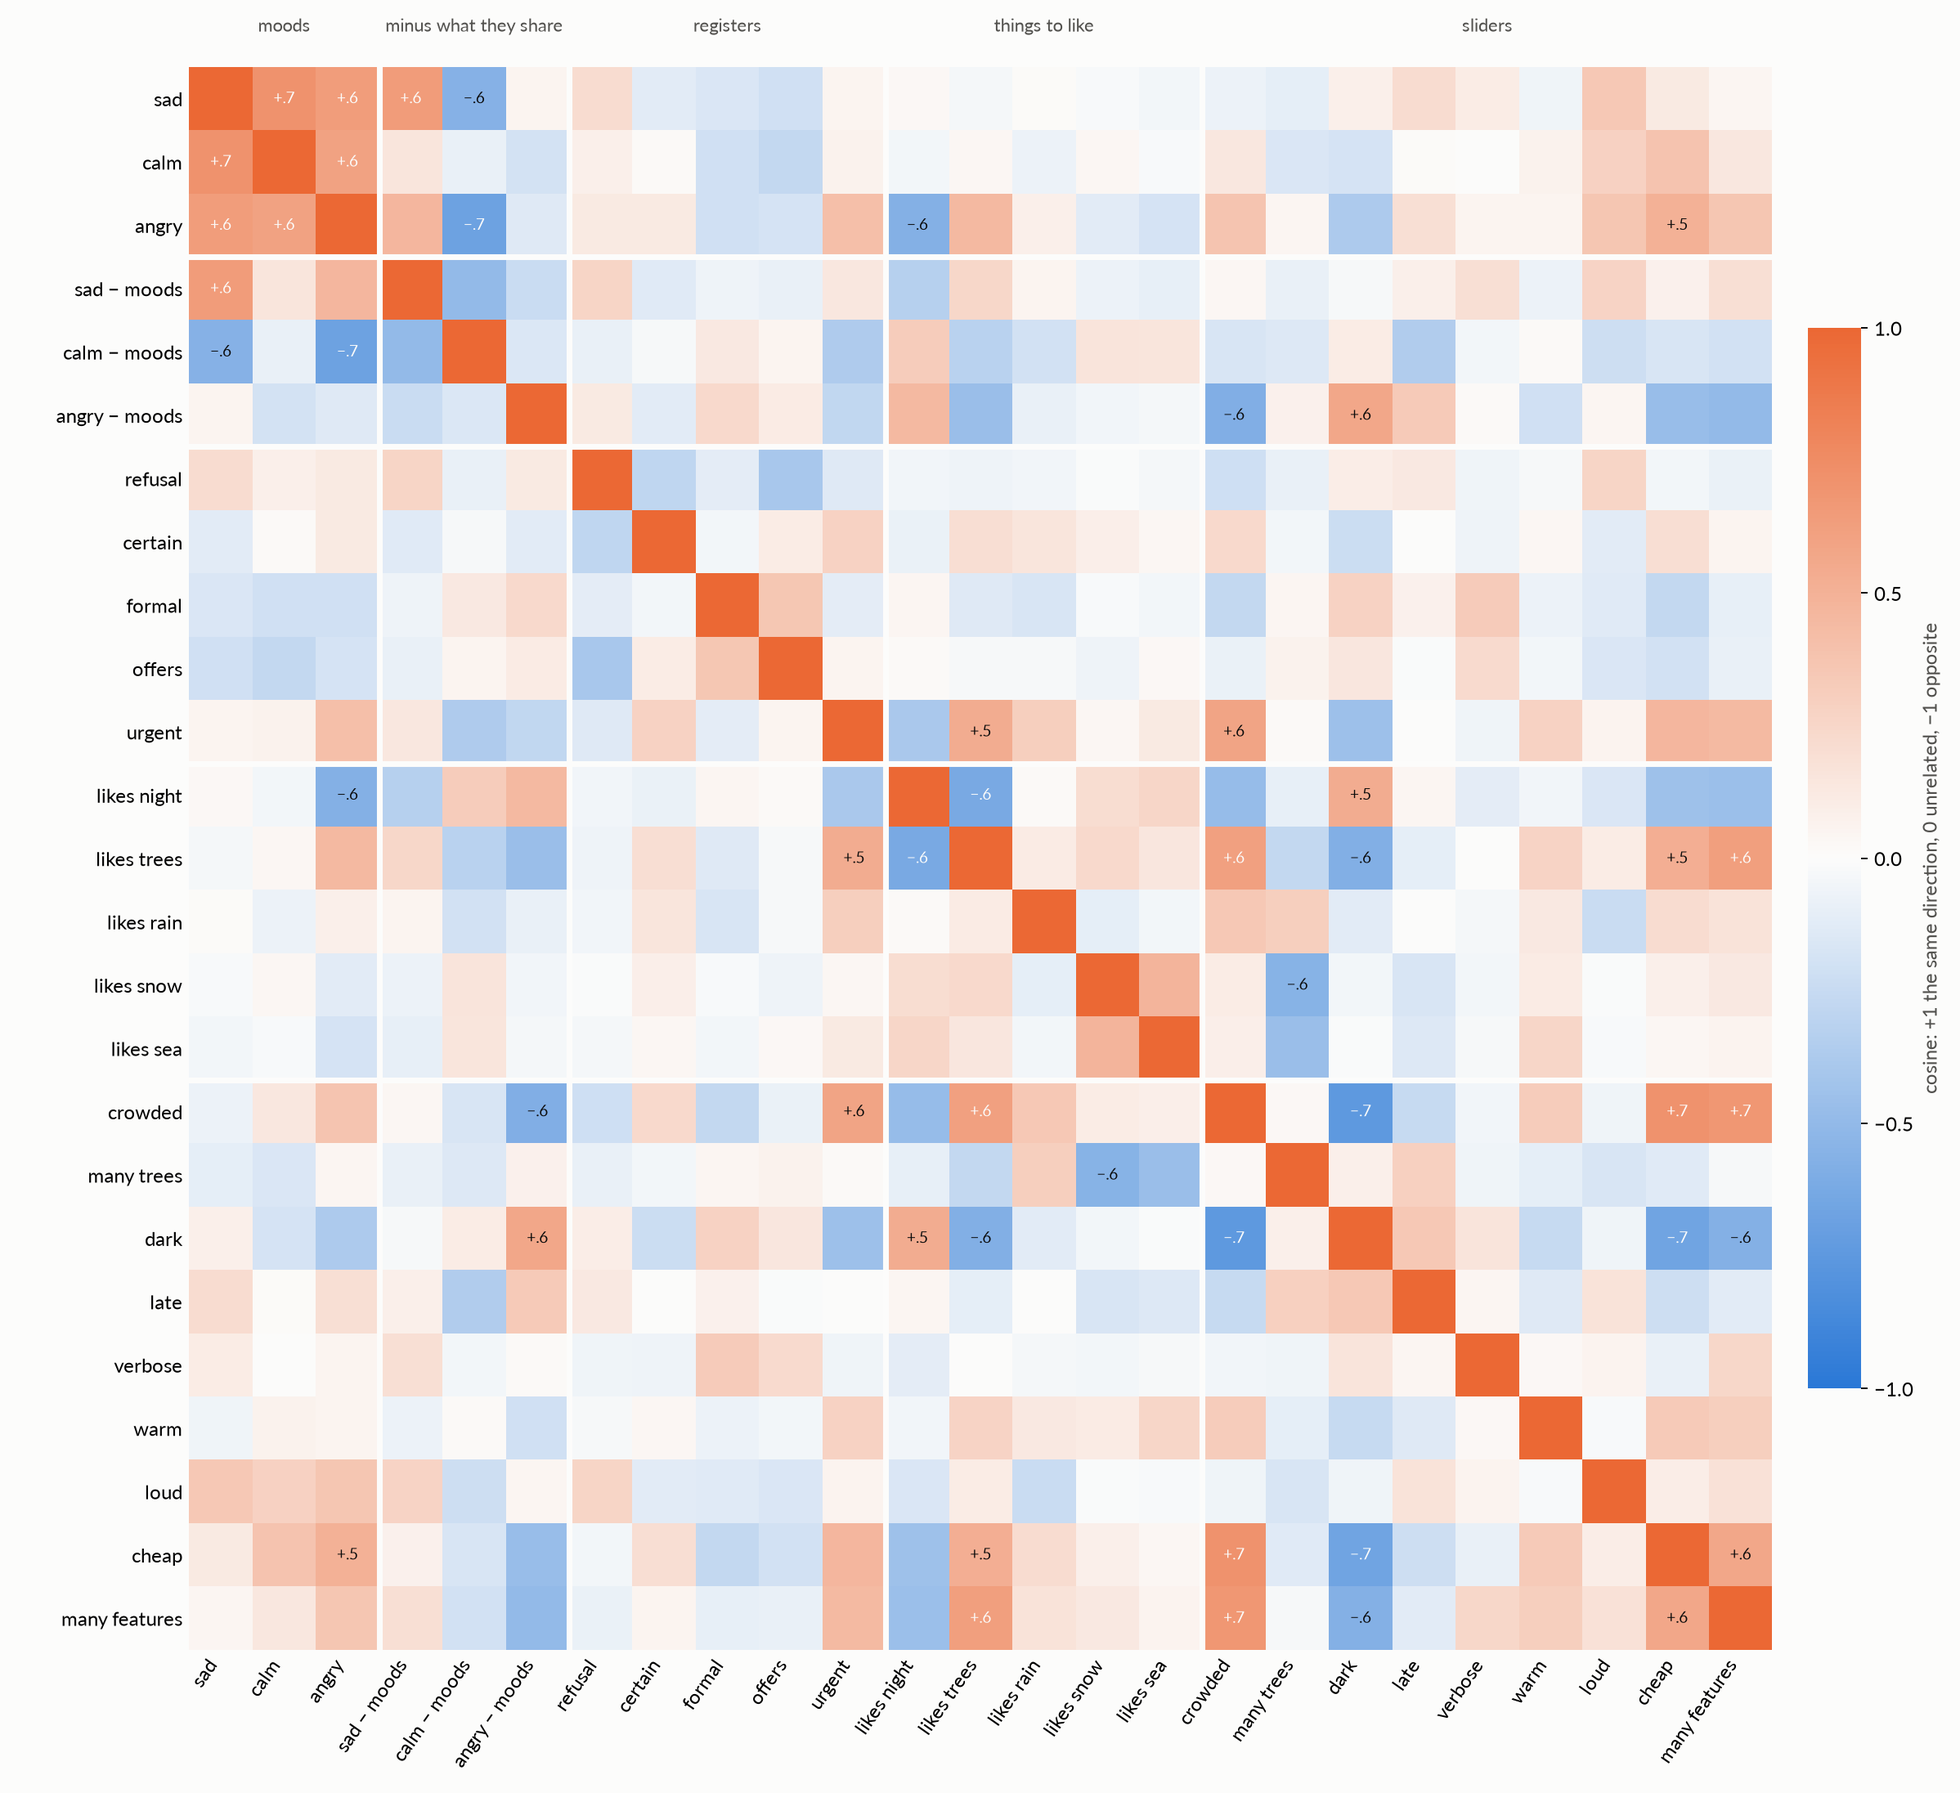
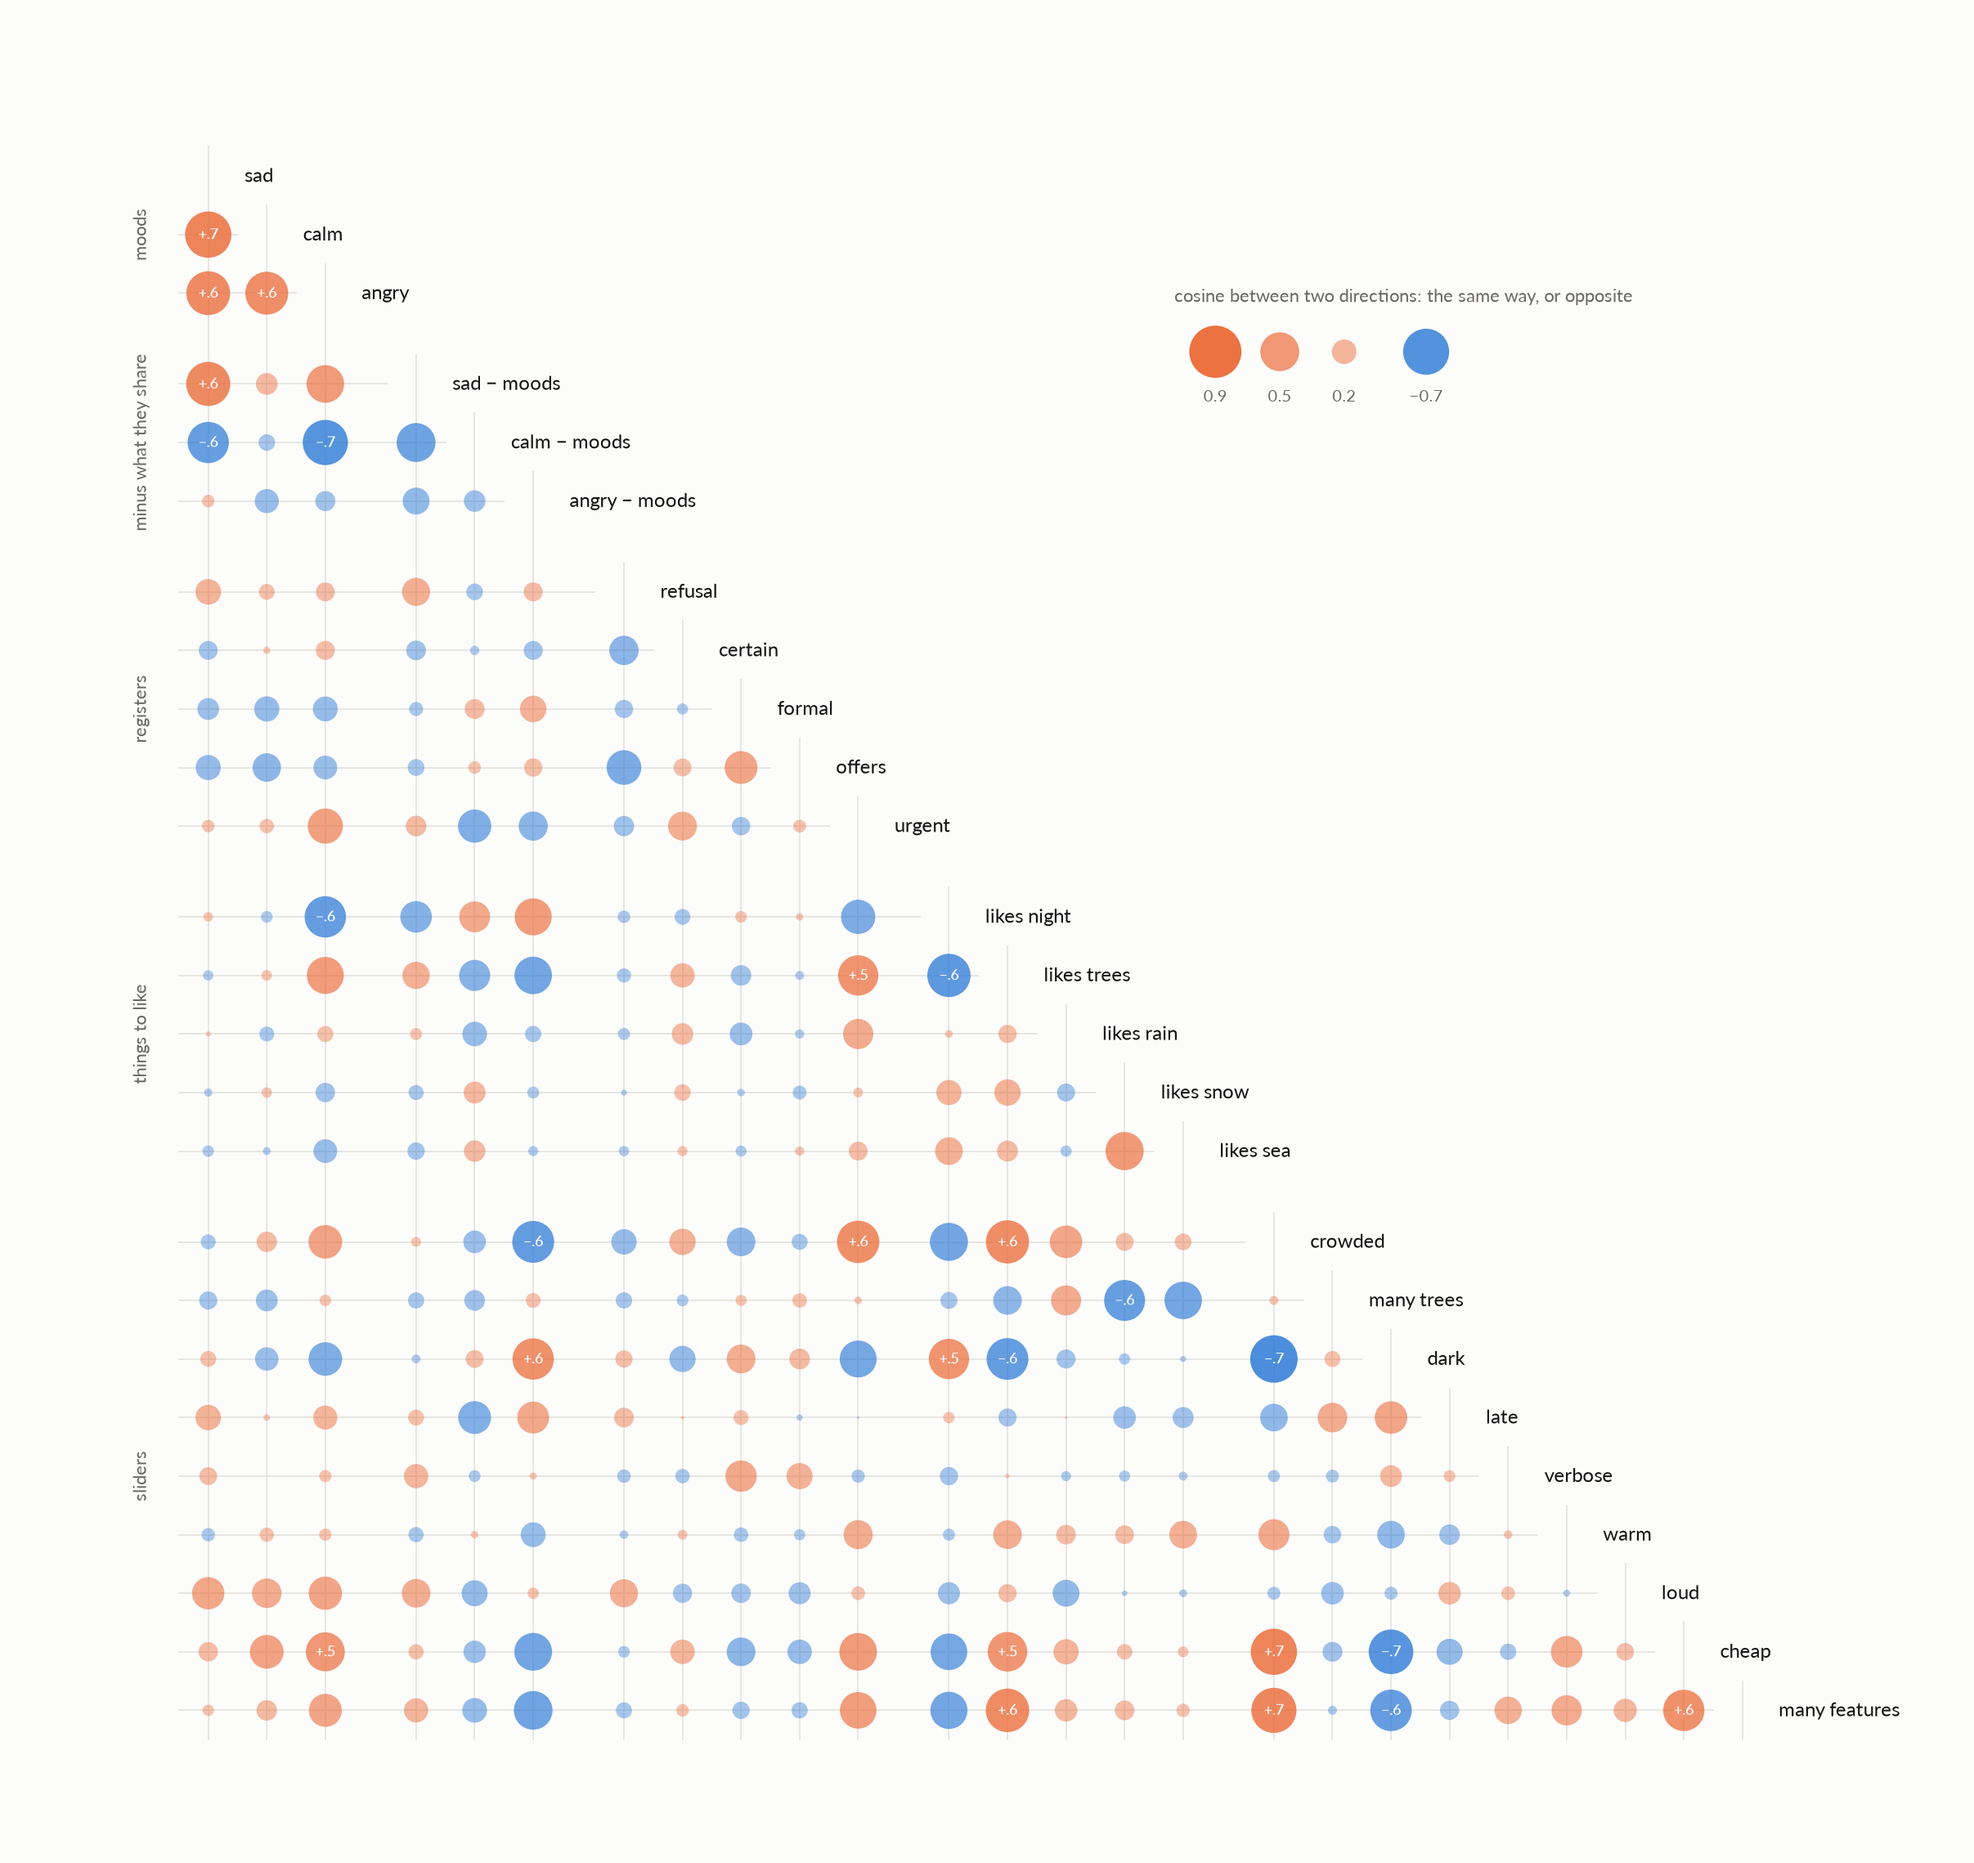
the matrix as circles

diff --git a/fig/plot_directions.py b/fig/plot_directions.py
@@ -27,12 +27,100 @@ from steeropathy import worldof  # noqa: E402
 DEFAULT = ["sad", "calm", "angry", "sad~moods", "calm~moods", "angry~moods", "refusal", "certain", "formal",
            "night", "trees", "rain", "snow", "sea", "manytrees", "crowded", "darker", "later", "verbose", "warmer",
            "louder", "cheaper", "manyfeatures", "offers", "urgent"]
-INK, INK2, SURF = "#0b0b0b", "#52514e", "#fcfcfb"
+INK, INK2, SURF, GRID, POS, NEG = "#141414", "#6b6964", "#fcfcfb", "#e6e5e1", "#eb6834", "#2a78d6"
 CMAP = LinearSegmentedColormap.from_list("div", ["#2a78d6", "#fcfcfb", "#eb6834"])
 
 
 def cos(a, b):
     return sum(x * y for x, y in zip(a, b)) / (math.sqrt(sum(x * x for x in a)) * math.sqrt(sum(y * y for y in b)) or 1.0)
+
+
+def _gaps(GROUPS, vecs):
+    """Row/column index of each group's first member and a display offset that leaves a gap between groups."""
+    off, pos, offsets, starts = 0.0, 0, {}, []
+    for gname, g in GROUPS:
+        k = sum(1 for x in g if x in vecs)
+        if not k:
+            continue
+        starts.append((gname, pos, k, off))
+        for i in range(pos, pos + k):
+            offsets[i] = off
+        pos += k
+        off += 0.55
+    return offsets, starts
+
+
+def bubbles(M, names, shown, GROUPS, vecs, vmin):
+    """The lower triangle as circles: area is |cos|, orange the same way, blue opposite."""
+    n = len(names)
+    offsets, starts = _gaps(GROUPS, vecs)
+    fig, ax = plt.subplots(figsize=(0.44 * n + 3.2, 0.44 * n + 2.4), facecolor=SURF)
+    ax.set_facecolor(SURF)
+    X = lambda j: j + offsets[j]     # noqa: E731
+    Y = lambda i: -(i + offsets[i])  # noqa: E731
+    for i in range(n):
+        for j in range(i):
+            c = M[i][j]
+            r = 0.47 * abs(c) ** 0.5
+            col = POS if c > 0 else NEG
+            ax.add_patch(plt.Circle((X(j), Y(i)), r, facecolor=col, edgecolor="none",
+                                    alpha=0.35 + 0.65 * abs(c), zorder=3))
+            if abs(c) >= vmin:
+                ax.text(X(j), Y(i), f"{c:+.1f}".replace("+0.", "+.").replace("-0.", "−."), ha="center", va="center",
+                        fontsize=7.5, color=SURF, fontweight="semibold", zorder=4)
+        ax.text(X(i) + 0.62, Y(i), shown[i], ha="left", va="center", fontsize=10, color=INK)   # the name on the diagonal
+    # faint rails so the eye can follow a row and a column
+    for i in range(n):
+        ax.plot([X(0) - 0.5, X(i) - 0.5], [Y(i), Y(i)], color=GRID, linewidth=0.8, zorder=1)
+        ax.plot([X(i), X(i)], [Y(i) + 0.5, Y(n - 1) - 0.5], color=GRID, linewidth=0.8, zorder=1)
+    # group names along the left, beside their rows
+    for gname, pos, k, off in starts:
+        ax.text(X(0) - 1.0, (Y(pos) + Y(pos + k - 1)) / 2, gname, ha="right", va="center", fontsize=9.5,
+                color=INK2, rotation=90 if k > 2 else 0)
+    # a small key
+    kx, ky = X(n - 1) - 9.0, Y(0) - 3.0
+    for dx, c in ((0, 0.9), (1.1, 0.5), (2.2, 0.2)):
+        ax.add_patch(plt.Circle((kx + dx, ky), 0.47 * c ** 0.5, facecolor=POS, edgecolor="none", alpha=0.35 + 0.65 * c))
+        ax.text(kx + dx, ky - 0.85, f"{c:.1f}", ha="center", fontsize=8.5, color=INK2)
+    ax.add_patch(plt.Circle((kx + 3.6, ky), 0.47 * 0.7 ** 0.5, facecolor=NEG, edgecolor="none", alpha=0.35 + 0.65 * 0.7))
+    ax.text(kx + 3.6, ky - 0.85, "−0.7", ha="center", fontsize=8.5, color=INK2)
+    ax.text(kx - 0.7, ky + 0.85, "cosine between two directions: the same way, or opposite", ha="left", fontsize=9.5, color=INK2)
+    ax.set_xlim(X(0) - 3.2, X(n - 1) + 3.6)
+    ax.set_ylim(Y(n - 1) - 0.8, Y(0) + 1.2)
+    ax.set_aspect("equal")
+    ax.axis("off")
+    return fig, ax
+
+
+def cells(M, names, shown, GROUPS, vecs, vmin):
+    n = len(names)
+    fig, ax = plt.subplots(figsize=(0.46 * n + 2.6, 0.46 * n + 1.4), facecolor=SURF)
+    im = ax.imshow(M, cmap=CMAP, vmin=-1, vmax=1)
+    ax.set_xticks(range(n), shown, rotation=55, ha="right", fontsize=10)
+    ax.set_yticks(range(n), shown, fontsize=10)
+    for i in range(n):
+        for j in range(n):
+            if i != j and abs(M[i][j]) >= vmin:
+                ax.text(j, i, f"{M[i][j]:+.1f}".replace("+0.", "+.").replace("-0.", "−."), ha="center", va="center",
+                        fontsize=8, color=SURF if abs(M[i][j]) > 0.6 else INK)
+    pos = 0
+    for _, g in GROUPS[:-1]:
+        pos += sum(1 for x in g if x in vecs)
+        ax.axhline(pos - 0.5, color=SURF, linewidth=3)
+        ax.axvline(pos - 0.5, color=SURF, linewidth=3)
+    pos = 0
+    for gname, g in GROUPS:
+        k = sum(1 for x in g if x in vecs)
+        if k:
+            ax.text(pos + k / 2 - 0.5, -1.0, gname, ha="center", va="bottom", fontsize=9.5, color=INK2)
+            pos += k
+    ax.tick_params(length=0)
+    for sp in ax.spines.values():
+        sp.set_visible(False)
+    cb = plt.colorbar(im, ax=ax, fraction=0.03, pad=0.02, ticks=[-1, -0.5, 0, 0.5, 1])
+    cb.set_label("cosine: +1 the same direction, 0 unrelated, −1 opposite", color=INK2)
+    cb.outline.set_visible(False)
+    return fig, ax
 
 
 def main():
@@ -42,6 +130,8 @@ def main():
     ap.add_argument("--layer", type=int, default=None)
     ap.add_argument("--from", dest="src", default=None, help="a saved directions json instead of the server")
     ap.add_argument("--min", type=float, default=0.5, help="print the cosine where |cos| is at least this")
+    ap.add_argument("--cells", action="store_true", help="the full square of coloured cells instead of the triangle of circles")
+    ap.add_argument("--out", default=None)
     a = ap.parse_args()
     if a.src:
         d = json.loads(pathlib.Path(a.src).read_text())
@@ -76,37 +166,13 @@ def main():
     from style import fonts
     fonts(10)
     n = len(names)
-    fig, ax = plt.subplots(figsize=(0.46 * n + 2.6, 0.46 * n + 1.4), facecolor=SURF)
-    im = ax.imshow(M, cmap=CMAP, vmin=-1, vmax=1)
     shown = [labels.get(x, x) for x in names]
-    ax.set_xticks(range(n), shown, rotation=55, ha="right", fontsize=10)
-    ax.set_yticks(range(n), shown, fontsize=10)
-    for i in range(n):
-        for j in range(n):
-            if i != j and abs(M[i][j]) >= a.min:
-                ax.text(j, i, f"{M[i][j]:+.1f}".replace("+0.", "+.").replace("-0.", "−."), ha="center", va="center",
-                        fontsize=8, color=SURF if abs(M[i][j]) > 0.6 else INK)
-    # white gaps between the groups
-    pos = 0
-    for _, g in GROUPS[:-1]:
-        pos += sum(1 for x in g if x in vecs)
-        ax.axhline(pos - 0.5, color=SURF, linewidth=3)
-        ax.axvline(pos - 0.5, color=SURF, linewidth=3)
-    # group names along the top
-    pos = 0
-    for gname, g in GROUPS:
-        k = sum(1 for x in g if x in vecs)
-        if k:
-            ax.text(pos + k / 2 - 0.5, -1.0, gname, ha="center", va="bottom", fontsize=9.5, color=INK2)
-            pos += k
-    ax.tick_params(length=0)
-    for sp in ax.spines.values():
-        sp.set_visible(False)
-    cb = plt.colorbar(im, ax=ax, fraction=0.03, pad=0.02, ticks=[-1, -0.5, 0, 0.5, 1])
-    cb.set_label("cosine: +1 the same direction, 0 unrelated, −1 opposite", color=INK2)
-    cb.outline.set_visible(False)
+    if a.cells:
+        fig, ax = cells(M, names, shown, GROUPS, vecs, a.min)
+    else:
+        fig, ax = bubbles(M, names, shown, GROUPS, vecs, a.min)
     fig.tight_layout()
-    out = HERE / "docs" / "directions-cos.png"
+    out = pathlib.Path(a.out) if a.out else HERE / "docs" / "directions-cos.png"
     fig.savefig(out, dpi=170, facecolor=SURF)
     print(out)
 
